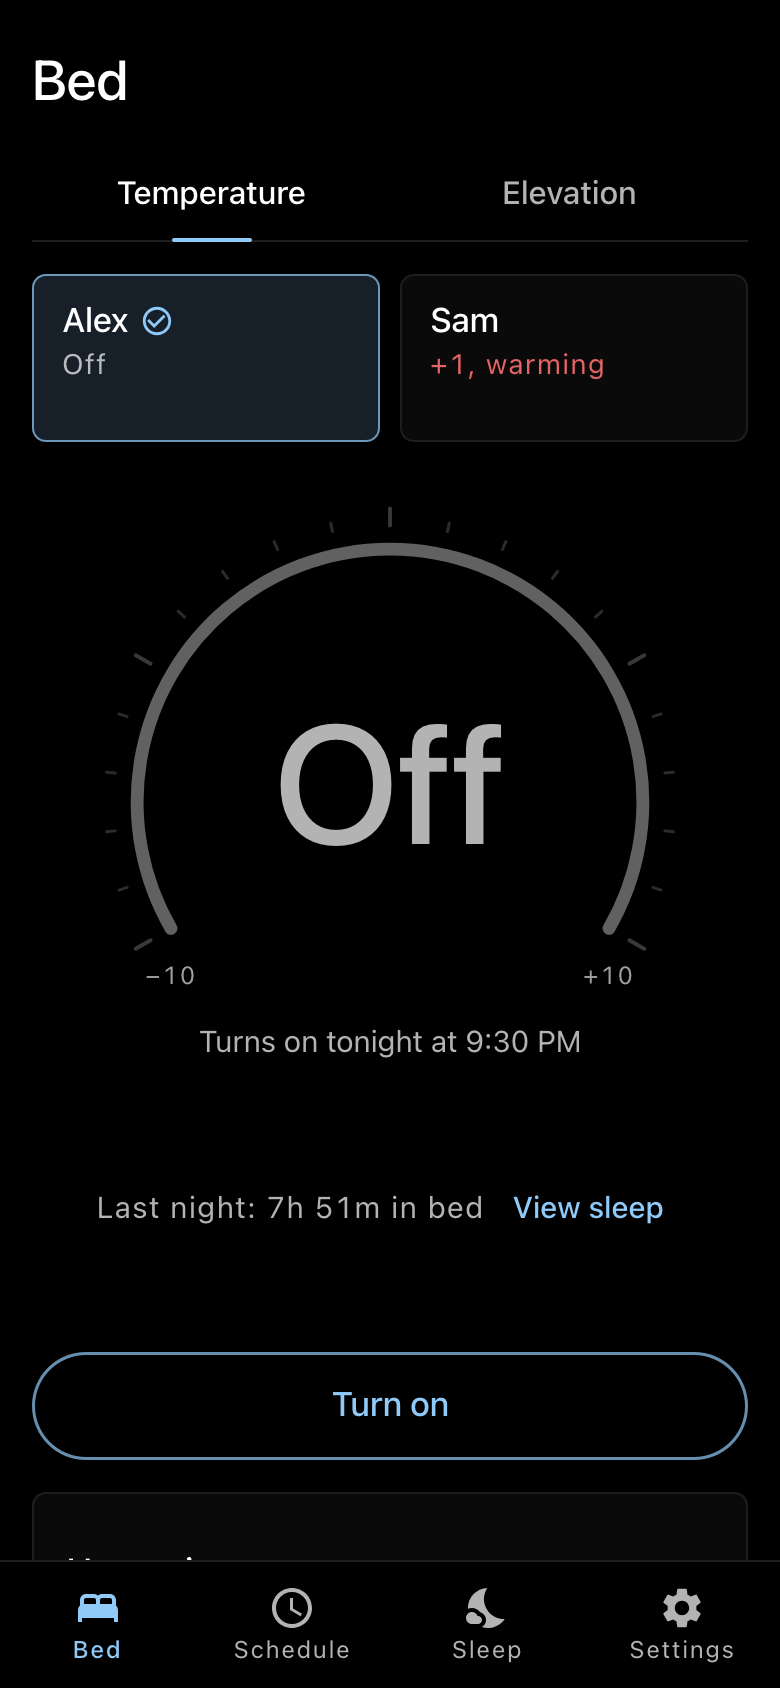
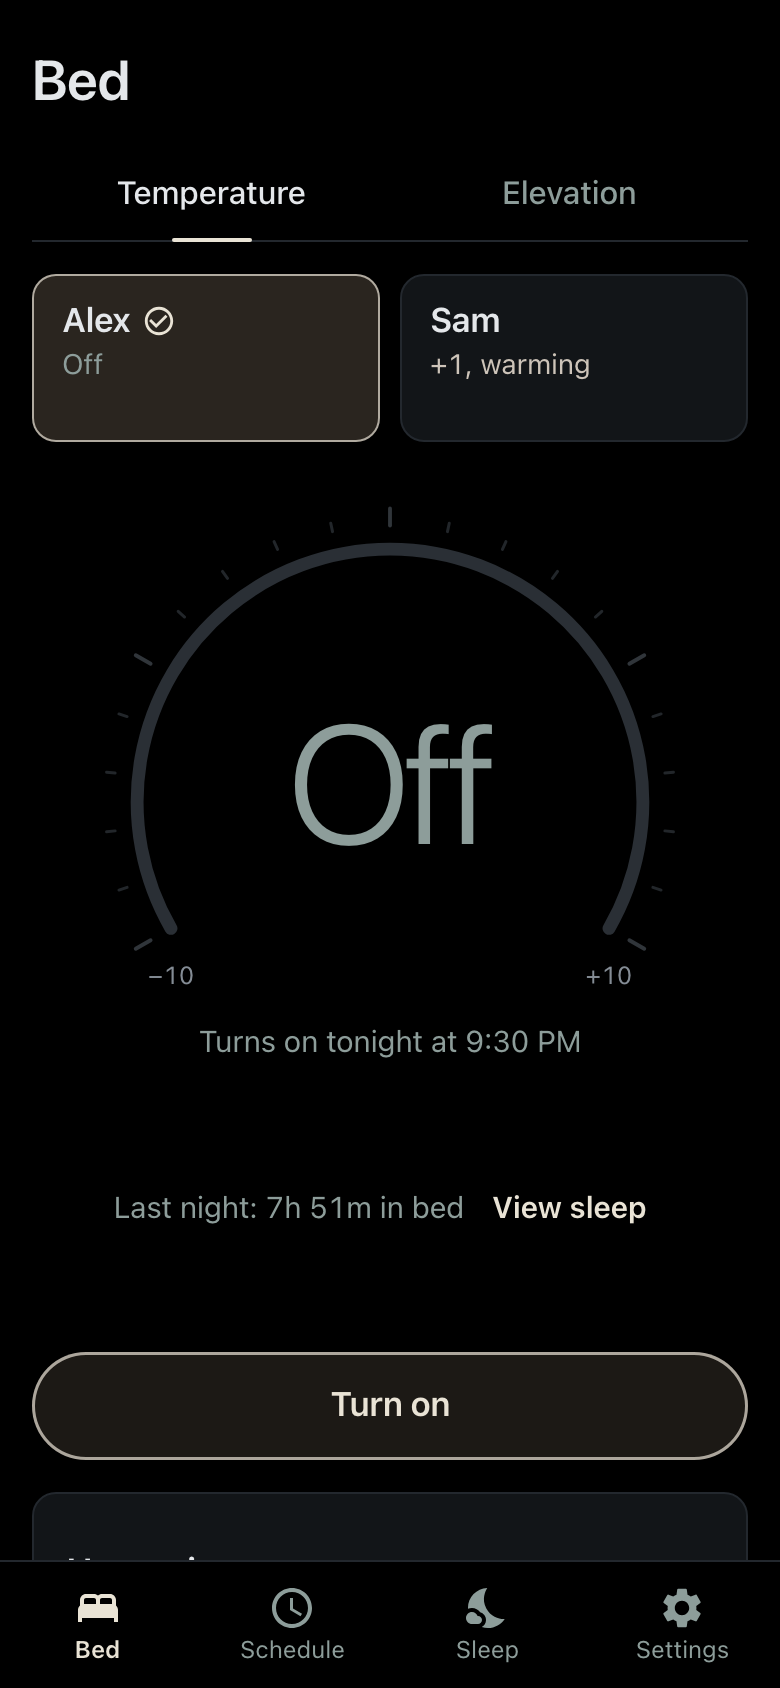
ui(theme): keep lamp as the default and offer three looks
Lamp, the look of 3.4.0 to 3.5.1, stays the default, so an update from
3.5.1 changes nothing on screen. The picker offers lamp, free-sleep
classic and jmew. A device that stored a look this version does not
know boots lamp, as before.

The tests that pinned the default look's colours, corners and weights
now pin lamp's values. The layout baselines and the README figures are
rendered again in lamp.

diff --git a/app/src/pages/SettingsPage/ThemePicker.test.tsx b/app/src/pages/SettingsPage/ThemePicker.test.tsx
@@ -1,8 +1,10 @@
-import { afterEach, beforeEach, expect, it, vi } from 'vitest';
+import { afterEach, beforeEach, expect, expectTypeOf, it, vi } from 'vitest';
 import { screen, within } from '@testing-library/react';
 import { renderWithProviders } from '@test/renderWithProviders';
 import { DEFAULT_THEME_ID, THEME_IDS, THEME_STORAGE_KEY } from '@design/themes/ids';
 import { THEME_NAMES, THEME_PICKER_COPY } from '@design/themes/copy';
+import { themeBootScript } from '@design/themeBoot';
+import { activeThemeId, readStoredThemeId, saveThemeId } from '@design/themePreference';
 import ThemePicker from './ThemePicker';
 
 const other = THEME_IDS.find(id => id !== DEFAULT_THEME_ID)!;
@@ -16,6 +18,35 @@ it('offers every look as a radio in one labelled group, with the current one cho
   expect(within(group).getAllByRole('radio').map(radio => radio.getAttribute('value'))).toEqual([...THEME_IDS]);
   for (const id of THEME_IDS) expect(within(group).getByRole('radio', { name: THEME_NAMES[id] })).toBeInTheDocument();
   expect(within(group).getByRole('radio', { name: THEME_NAMES[DEFAULT_THEME_ID] })).toBeChecked();
+});
+
+it('boots lamp for a removed stored id and offers only the three supported looks to save', async () => {
+  localStorage.setItem(THEME_STORAGE_KEY, 'nightstand');
+  const root = document.documentElement;
+  const previousTheme = root.getAttribute('data-theme');
+  const previousStyle = root.getAttribute('style');
+  try {
+    new Function(themeBootScript())();
+    expect(root.dataset.theme).toBe('lamp');
+    expect(readStoredThemeId()).toBe('lamp');
+    expect(activeThemeId()).toBe('lamp');
+    expectTypeOf(saveThemeId).parameter(0).toEqualTypeOf<'lamp' | 'classic' | 'glass'>();
+    const reload = vi.fn();
+    const { user } = renderWithProviders(<ThemePicker reload={ reload }/>);
+    const group = screen.getByRole('radiogroup', { name: THEME_PICKER_COPY.label });
+    expect(within(group).getAllByRole('radio').map(radio => radio.getAttribute('value')))
+      .toEqual(['lamp', 'classic', 'glass']);
+    expect(within(group).getByRole('radio', { name: 'lamp' })).toBeChecked();
+    await user.click(within(group).getByRole('radio', { name: 'free-sleep classic' }));
+    await user.click(screen.getByRole('button', { name: THEME_PICKER_COPY.apply }));
+    expect(localStorage.getItem(THEME_STORAGE_KEY)).toBe('classic');
+    expect(reload).toHaveBeenCalledOnce();
+  } finally {
+    if (previousTheme === null) root.removeAttribute('data-theme');
+    else root.setAttribute('data-theme', previousTheme);
+    if (previousStyle === null) root.removeAttribute('style');
+    else root.setAttribute('style', previousStyle);
+  }
 });
 
 it('gives every choice a row at least 44 px tall', () => {

diff --git a/app/src/pages/ControlTempPage/PowerRow.test.tsx b/app/src/pages/ControlTempPage/PowerRow.test.tsx
@@ -28,12 +28,12 @@ it('points to where away mode is changed instead of leaving a blank gap', async 
 it('draws Turn on and Turn off as matching full width dark pills', async () => {
   const { unmount } = renderWithProviders(<PowerRow isOn={ false } refetch={ refetch }/>);
   const turnOn = await screen.findByRole('button', { name: 'Turn on' });
-  expect(turnOn).toHaveStyle({ backgroundColor: '#000000', color: '#90CAF9', width: '100%', minHeight: '54px' });
-  expect(turnOn).toHaveStyle({ boxShadow: 'inset 0 0 0 1.5px rgba(144,202,249,0.7)' });
+  expect(turnOn).toHaveStyle({ backgroundColor: '#1C1915', color: '#E9E3D5', width: '100%', minHeight: '54px' });
+  expect(turnOn).toHaveStyle({ boxShadow: 'inset 0 0 0 1.5px rgba(233,227,213,0.7)' });
   unmount();
   renderWithProviders(<PowerRow isOn refetch={ refetch }/>);
   const turnOff = await screen.findByRole('button', { name: 'Turn off' });
-  expect(turnOff).toHaveStyle({ backgroundColor: '#000000', width: '100%', minHeight: '54px' });
+  expect(turnOff).toHaveStyle({ backgroundColor: '#2A251F', width: '100%', minHeight: '54px' });
 });
 
 it('holds the button in a row of fixed height', async () => {
@@ -54,7 +54,7 @@ it('puts Try again in the calm pill while the Pod does not answer', async () => 
   const retry = vi.fn();
   const { user } = renderWithProviders(<PowerRow isOn refetch={ refetch } onRetry={ retry }/>);
   const button = await screen.findByRole('button', { name: 'Try again' });
-  expect(button).toHaveStyle({ backgroundColor: '#000000', color: '#90CAF9', width: '100%' });
+  expect(button).toHaveStyle({ backgroundColor: '#1C1915', color: '#E9E3D5', width: '100%' });
   expect(screen.queryByRole('button', { name: 'Turn off' })).not.toBeInTheDocument();
   await user.click(button);
   expect(retry).toHaveBeenCalledOnce();

diff --git a/app/src/pages/ControlTempPage/UpcomingNight.test.tsx b/app/src/pages/ControlTempPage/UpcomingNight.test.tsx
@@ -50,15 +50,15 @@ it('uses the shared section hierarchy for upcoming events', () => {
   fixture.on = '21:00';
   render(<ThemeProvider theme={ theme }><MemoryRouter><UpcomingNight/></MemoryRouter></ThemeProvider>);
   expect(screen.getByRole('heading', { level: 2, name: 'Upcoming' }))
-    .toHaveStyle({ fontSize: '1.125rem', fontWeight: 500 });
+    .toHaveStyle({ fontSize: '1.125rem', fontWeight: 600 });
 });
 
-it('draws the card at the shared 7 px radius with its actions as 44 px lamp links', () => {
+it('draws the card at the shared 12 px radius with its actions as 44 px lamp links', () => {
   vi.spyOn(moment, 'now').mockReturnValue(Date.parse('2026-09-28T20:00:00Z'));
   fixture.on = '21:00';
   fixture.expiresAt = '2026-09-28T19:00:00Z';
   const { container } = render(<ThemeProvider theme={ theme }><MemoryRouter><UpcomingNight/></MemoryRouter></ThemeProvider>);
-  expect(container.querySelector('[data-tonight]')).toHaveStyle({ borderRadius: '7px' });
+  expect(container.querySelector('[data-tonight]')).toHaveStyle({ borderRadius: '12px' });
   expect(screen.getByRole('link', { name: 'Edit schedule' })).toHaveStyle({ minHeight: '44px', fontSize: '15px' });
   expect(screen.getByText('Turns on tonight at 9:00 PM, set to 82°F')).toHaveStyle({ fontSize: '15px' });
 });

diff --git a/app/src/pages/ControlTempPage/TemperatureDial.test.tsx b/app/src/pages/ControlTempPage/TemperatureDial.test.tsx
@@ -103,9 +103,9 @@ it('puts the caption in its own slot between the dial and the controls row', () 
   expect(slot.nextElementSibling).toHaveAttribute('data-controls-row');
 });
 
-it('sets a level in the large numeral', () => {
+it('sets a level in the large light numeral', () => {
   render(<TemperatureDial status={ on } refetch={ vi.fn() } format="level"/>);
-  expect(screen.getByRole('heading', { level: 2 })).toHaveStyle({ fontSize: '100px', fontWeight: '500' });
+  expect(screen.getByRole('heading', { level: 2 })).toHaveStyle({ fontSize: '100px', fontWeight: '300' });
   expect(screen.getByText('Warming to')).toHaveStyle({ fontSize: '15px' });
 });
 
@@ -116,9 +116,9 @@ it('writes °F at the smaller numeral size', () => {
   expect(numeral).toHaveStyle({ fontSize: '64px' });
 });
 
-it('says Off in the large numeral face while off', () => {
+it('says Off in the large light face while off', () => {
   render(<TemperatureDial status={ { ...on, isOn: false } } refetch={ vi.fn() } format="level"/>);
-  expect(screen.getByText('Off')).toHaveStyle({ fontSize: '84px', fontWeight: '500' });
+  expect(screen.getByText('Off')).toHaveStyle({ fontSize: '84px', fontWeight: '300' });
 });
 
 it('says "Set to" and draws a hollow dot while an edit waits for the Pod', () => {

diff --git a/app/src/components/SideControl.test.tsx b/app/src/components/SideControl.test.tsx
@@ -136,8 +136,8 @@ it('names the level of a paused side that is on, on the Bed tiles and the compac
 it('draws the selected Bed tile filled, from the top, with room for three lines', () => {
   render(<SideControl compact={ false }/>);
   const selected = screen.getByRole('radio', { name: /^Alex/ }).closest('label')!;
-  expect(selected).toHaveStyle({ backgroundColor: '#172028', minHeight: '84px', borderRadius: '7px', justifyContent: 'flex-start' });
-  expect(screen.getByRole('radio', { name: /^Sam/ }).closest('label')).toHaveStyle({ backgroundColor: '#0A0A0A' });
+  expect(selected).toHaveStyle({ backgroundColor: '#2A251F', minHeight: '84px', borderRadius: '12px', justifyContent: 'flex-start' });
+  expect(screen.getByRole('radio', { name: /^Sam/ }).closest('label')).toHaveStyle({ backgroundColor: '#121518' });
 });
 
 it('names only the side while the bed status loads', () => {

diff --git a/app/e2e/bed-trust.spec.ts b/app/e2e/bed-trust.spec.ts
@@ -34,13 +34,13 @@ test('a change still unconfirmed after two seconds is drawn in the last known gr
   const numeral = page.locator('[data-dial] h2');
   await expect(dot).toHaveCount(1);
   const colour = await dot.getAttribute('stroke');
-  expect(colour).not.toBe('#9E9E9E');
+  expect(colour).not.toBe('#848C95');
 
   await page.clock.fastForward(1000);
   await expect(dot).toHaveAttribute('stroke', colour!);
   await page.clock.fastForward(1100);
-  await expect(dot).toHaveAttribute('stroke', '#9E9E9E');
-  await expect(numeral).toHaveCSS('color', 'rgba(255, 255, 255, 0.7)');
+  await expect(dot).toHaveAttribute('stroke', '#848C95');
+  await expect(numeral).toHaveCSS('color', 'rgb(141, 157, 154)');
   await expect(lead(page)).toHaveText('Set to');
 });
 

diff --git a/server/src/features/featuresManifest.ts b/server/src/features/featuresManifest.ts
@@ -247,7 +247,8 @@ export const FEATURES_MANIFEST: ManifestEntry[] = [
   {
     id: 'design-system',
     title: 'Design system',
-    description: 'Four themes, chosen per device in Settings > Bed and sides: one token set per theme for colour, type voice and '
+    description: 'Three themes, chosen per device in Settings > Bed and sides: lamp (the default), free-sleep classic and jmew. '
+      + 'One token set per theme for colour, type voice and '
       + 'corners, a temperature scale per theme with a neutral zero, and the same layout and 44 px targets in each.',
     category: 'ui',
     version: 'n/a',

diff --git a/app/src/design/themes/ids.ts b/app/src/design/themes/ids.ts
@@ -1,8 +1,8 @@
-export type ThemeId = 'nightstand' | 'lamp' | 'classic' | 'glass';
+export type ThemeId = 'lamp' | 'classic' | 'glass';
 
 // Stored on devices: never rename an id. The order is the picker's.
-export const THEME_IDS: readonly ThemeId[] = ['nightstand', 'lamp', 'classic', 'glass'];
-export const DEFAULT_THEME_ID: ThemeId = 'nightstand';
+export const THEME_IDS: readonly ThemeId[] = ['lamp', 'classic', 'glass'];
+export const DEFAULT_THEME_ID: ThemeId = 'lamp';
 // Namespaced because the hosted demo shares its origin with other pages.
 export const THEME_STORAGE_KEY = 'nightstand-theme';
 

diff --git a/app/src/pages/SettingsPage/UsageBar.test.tsx b/app/src/pages/SettingsPage/UsageBar.test.tsx
@@ -6,7 +6,7 @@ import UsageBar from './UsageBar';
 it('draws a track that differs from the card it sits on', () => {
   render(<UsageBar label="Storage" usedBytes={ 1.6e9 } totalBytes={ 15e9 } usedPercent={ 11 }/>);
   const track = getComputedStyle(screen.getByRole('progressbar')).backgroundColor;
-  expect(track).toBe('rgb(30, 30, 30)');
-  expect(track).not.toBe('rgb(10, 10, 10)');
-  expect(palette.border.subtle.toLowerCase()).toBe('#1e1e1e');
+  expect(track).toBe('rgb(35, 40, 46)');
+  expect(track).not.toBe('rgb(18, 21, 24)');
+  expect(palette.border.subtle.toLowerCase()).toBe('#23282e');
 });

diff --git a/app/src/pages/DataPage/SleepPage/MissingNightCard.test.tsx b/app/src/pages/DataPage/SleepPage/MissingNightCard.test.tsx
@@ -6,7 +6,7 @@ import MissingNightCard from './MissingNightCard';
 it('gives a missing-night section the same heading hierarchy as a recorded night', () => {
   renderWithProviders(<MissingNightCard state="empty" canAnalyze={ false } onAnalyze={ () => {} }/>);
   expect(screen.getByRole('heading', { level: 2, name: 'Nothing recorded' }))
-    .toHaveStyle({ fontSize: '1.125rem', fontWeight: 500 });
+    .toHaveStyle({ fontSize: '1.125rem', fontWeight: 600 });
 });
 
 it('describes the analysis timing of the running schedule for a pending night', () => {

diff --git a/app/src/design/themes/themes.test.ts b/app/src/design/themes/themes.test.ts
@@ -62,7 +62,8 @@ function drawnPairs(p: ThemePalette): Pair[] {
 
 it('registers every id once, in picker order, with a valid default', () => {
   // Stored on devices, so the ids and their order are pinned here.
-  expect(THEME_IDS).toEqual(['nightstand', 'lamp', 'classic', 'glass']);
+  expect(THEME_IDS).toEqual(['lamp', 'classic', 'glass']);
+  expect(DEFAULT_THEME_ID).toBe('lamp');
   expect(Object.keys(THEMES).sort()).toEqual([...THEME_IDS].sort());
   expect(isThemeId(DEFAULT_THEME_ID)).toBe(true);
   expect(isThemeId('neon')).toBe(false);

diff --git a/app/src/pages/SchedulePage/SchedulePage.headings.test.tsx b/app/src/pages/SchedulePage/SchedulePage.headings.test.tsx
@@ -21,7 +21,7 @@ it('gives the night and timeline sections consistent level-two headings', async 
   await screen.findByRole('heading', { name: 'Bedtime' });
   for (const name of [/^[A-Z][a-z]+ night/, 'Bedtime', 'Through the night', 'Wake up']) {
     const heading = screen.getByRole('heading', { level: 2, name });
-    expect(heading).toHaveStyle({ fontSize: '1.125rem', fontWeight: 500 });
+    expect(heading).toHaveStyle({ fontSize: '1.125rem', fontWeight: 600 });
   }
 });
 
